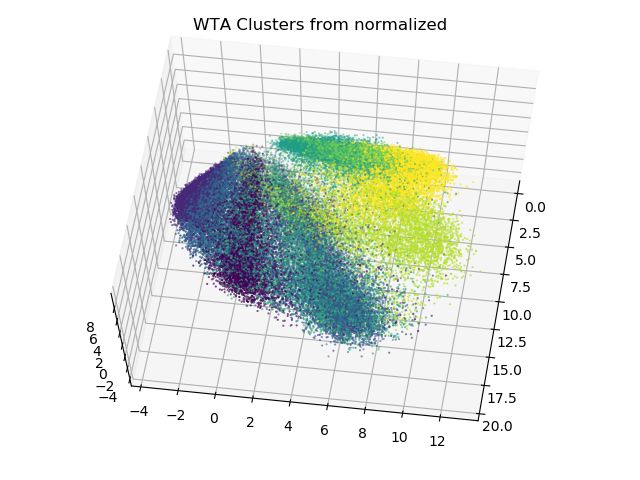
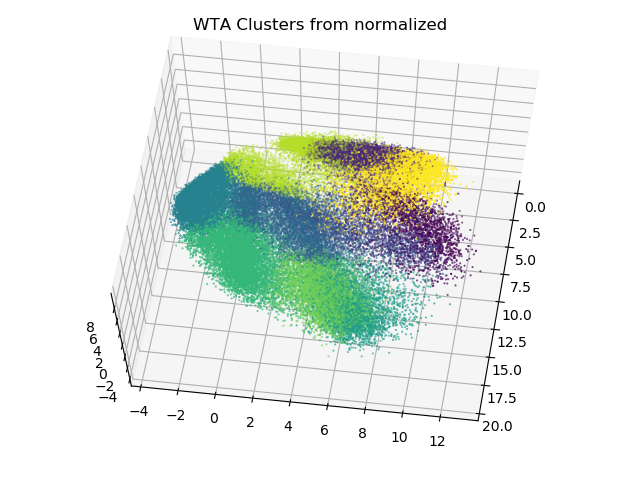
More 3D PCA updates

Changed region(s): [[0.25, 0.25, 0.75, 0.7188]]

diff --git a/clusters_cedwar45.py b/clusters_cedwar45.py
@@ -82,10 +82,10 @@ km_X, km_winners, km_MD = kMeans(pX_train, k=c, seed=123);
 
 fig = plt.figure()
 if not threeD:
-    plt.scatter(pX_train[:,0], pX_train[:,1], s = .25, c = y_train);
+    plt.scatter(pX_train[:,0], pX_train[:,1], s = .25, c = km_winners);
 else:
     ax = Axes3D(fig)
-    ax.scatter(pX_train[:,0], pX_train[:,1], pX_train[:,2], s = .25, c = y_train);
+    ax.scatter(pX_train[:,0], pX_train[:,1], pX_train[:,2], s = .25, c = km_winners);
     ax.view_init(68, 8)
 plt.title("k-means Clusters from PCA")
 #plt.show()
@@ -96,10 +96,10 @@ km_X, km_winners, km_MD = kMeans(X_train, k=c, seed=123);
 
 fig = plt.figure()
 if not threeD:
-    plt.scatter(pX_train[:,0], pX_train[:,1], s = .25, c = y_train);
+    plt.scatter(pX_train[:,0], pX_train[:,1], s = .25, c = km_winners);
 else:
     ax = Axes3D(fig)
-    ax.scatter(pX_train[:,0], pX_train[:,1], pX_train[:,2], s = .25, c = y_train);
+    ax.scatter(pX_train[:,0], pX_train[:,1], pX_train[:,2], s = .25, c = km_winners);
     ax.view_init(68, 8)
 plt.title("k-means Clusters from normalized")
 #plt.show()
@@ -113,7 +113,7 @@ if not threeD:
     plt.scatter(pX_train[:,0], pX_train[:,1], s = .25, c = WTA_winners);
 else:
     ax = Axes3D(fig)
-    ax.scatter(pX_train[:,0], pX_train[:,1], pX_train[:,2], s = .25, c = y_train);
+    ax.scatter(pX_train[:,0], pX_train[:,1], pX_train[:,2], s = .25, c = WTA_winners);
     ax.view_init(68, 8)
 plt.title("WTA Clusters from PCA")
 #plt.show()
@@ -127,7 +127,7 @@ if not threeD:
     plt.scatter(pX_train[:,0], pX_train[:,1], s = .25, c = WTA_winners);
 else:
     ax = Axes3D(fig)
-    ax.scatter(pX_train[:,0], pX_train[:,1], pX_train[:,2], s = .25, c = y_train);
+    ax.scatter(pX_train[:,0], pX_train[:,1], pX_train[:,2], s = .25, c = WTA_winners);
     ax.view_init(68, 8)
 plt.title("WTA Clusters from normalized")
 plt.show()
